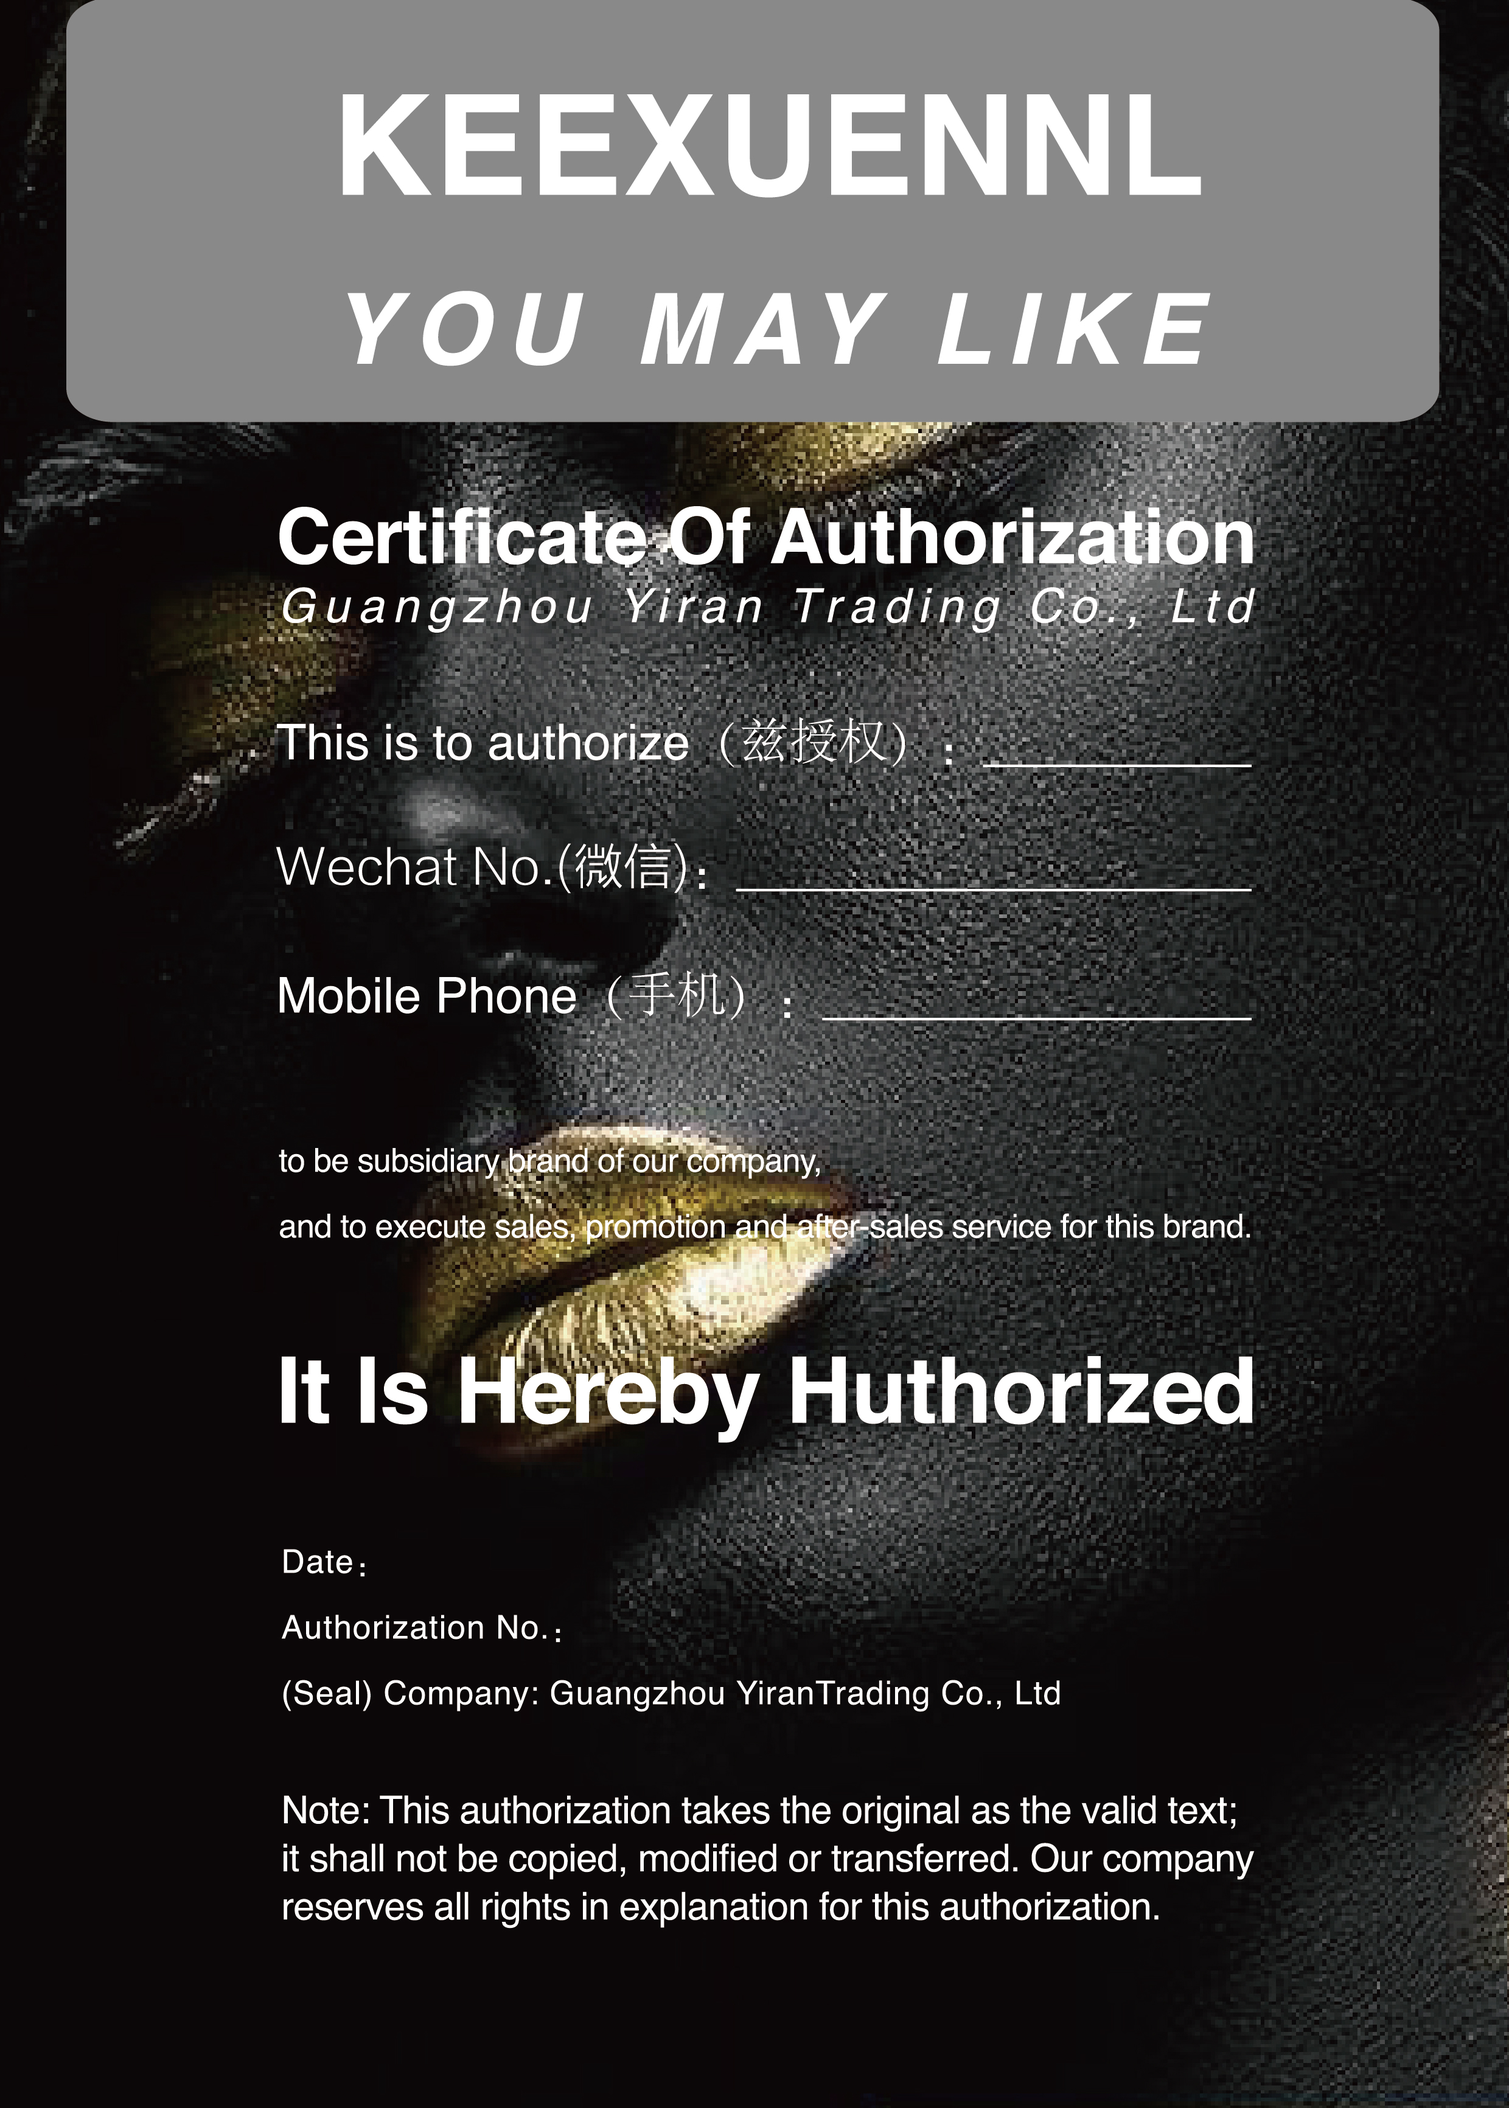
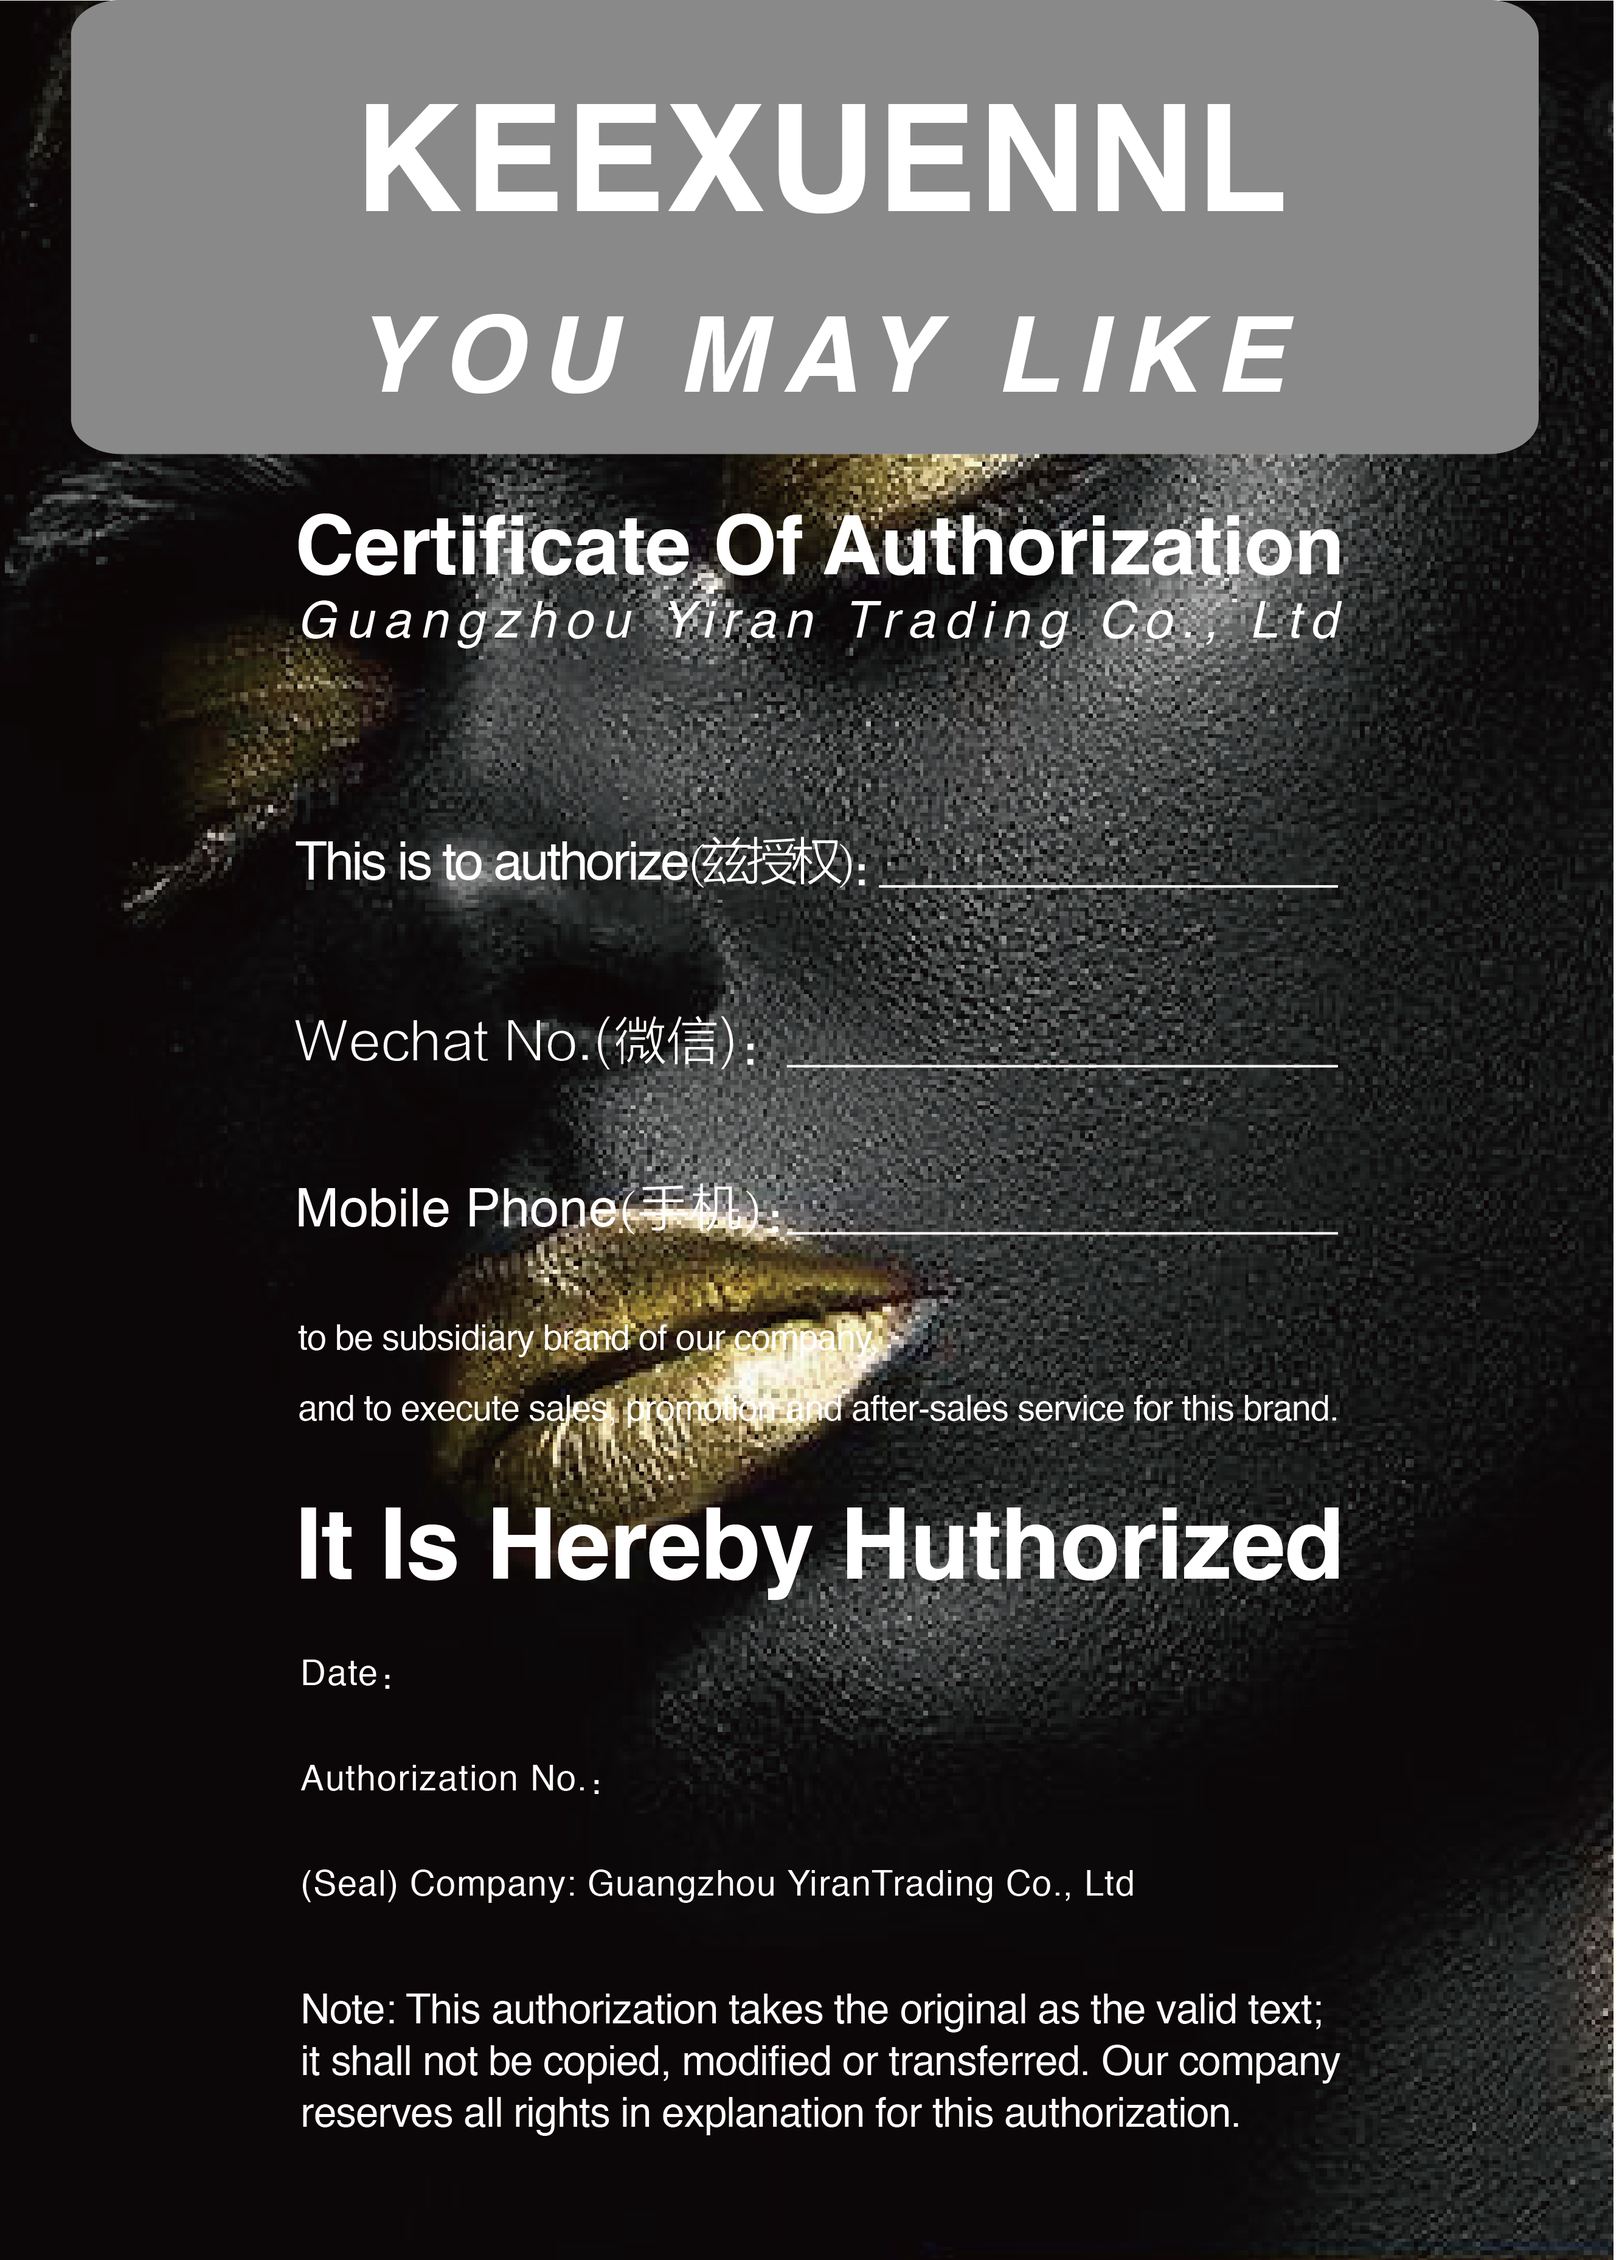
fix
fix

diff --git a/collectstatic/authorization.css b/collectstatic/authorization.css
@@ -15,24 +15,22 @@ body {
       color: #fff;
       height: 3%;
       right: 17%;
+      border: none;
       text-align: center; }
     .content div.absolute p#authorize {
-      width: 18%;
-      top: 34.1%;
+      width: 28.6%;
+      top: 36.8%;
       background-color: transparent;
-      border: none;
       outline: none; }
     .content div.absolute p#Wechat {
-      top: 40%;
-      width: 34%;
+      top: 44.8%;
+      width: 34.5%;
       background-color: transparent;
-      border: none;
       outline: none; }
     .content div.absolute p#mobile {
-      top: 46%;
-      width: 28.3%;
+      top: 52.5%;
+      width: 34.3%;
       background-color: transparent;
-      border: none;
       outline: none; }
   .content p {
     position: absolute;
@@ -40,9 +38,25 @@ body {
     font-size: 14px; }
   .content p.line1 {
     left: 26%;
-    bottom: 23.7%; }
+    bottom: 23.8%; }
   .content p.line2 {
     left: 39%;
-    bottom: 20.5%; }
+    bottom: 19%; }
+
+@media screen and (max-width: 572px) {
+  p#authorize {
+    top: 36% !important; }
+
+  p#Wechat {
+    top: 43.8% !important; }
+
+  p#mobile {
+    top: 51.5% !important; }
+
+  p.line1 {
+    bottom: 22.5% !important; }
+
+  p.line2 {
+    bottom: 18% !important; } }
 
 /*# sourceMappingURL=authorization.css.map */

diff --git a/static/authorization.css b/static/authorization.css
@@ -15,24 +15,22 @@ body {
       color: #fff;
       height: 3%;
       right: 17%;
+      border: none;
       text-align: center; }
     .content div.absolute p#authorize {
-      width: 18%;
-      top: 34.1%;
+      width: 28.6%;
+      top: 36.8%;
       background-color: transparent;
-      border: none;
       outline: none; }
     .content div.absolute p#Wechat {
-      top: 40%;
-      width: 34%;
+      top: 44.8%;
+      width: 34.5%;
       background-color: transparent;
-      border: none;
       outline: none; }
     .content div.absolute p#mobile {
-      top: 46%;
-      width: 28.3%;
+      top: 52.5%;
+      width: 34.3%;
       background-color: transparent;
-      border: none;
       outline: none; }
   .content p {
     position: absolute;
@@ -40,9 +38,25 @@ body {
     font-size: 14px; }
   .content p.line1 {
     left: 26%;
-    bottom: 23.7%; }
+    bottom: 23.8%; }
   .content p.line2 {
     left: 39%;
-    bottom: 20.5%; }
+    bottom: 19%; }
+
+@media screen and (max-width: 572px) {
+  p#authorize {
+    top: 36% !important; }
+
+  p#Wechat {
+    top: 43.8% !important; }
+
+  p#mobile {
+    top: 51.5% !important; }
+
+  p.line1 {
+    bottom: 22.5% !important; }
+
+  p.line2 {
+    bottom: 18% !important; } }
 
 /*# sourceMappingURL=authorization.css.map */

diff --git a/collectstatic/authorization.scss b/collectstatic/authorization.scss
@@ -15,27 +15,25 @@ body{
       color: #fff;
       height: 3%;
       right:17%;
+      border: none;
       text-align: center;
     }
     p#authorize{
-      width: 18%;
-      top:34.1%;
+      width: 28.6%;
+      top:36.8%;
       background-color: transparent;
-      border: none;
       outline: none;
     }
     p#Wechat{
-      top: 40%;
-      width: 34%;
+      top: 44.8%;
+      width: 34.5%;
       background-color: transparent;
-      border: none;
       outline: none;
     }
     p#mobile{
-      top:46%;
-      width:28.3%;
+      top:52.5%;
+      width:34.3%;
       background-color: transparent;
-      border: none;
       outline: none;
     }
 
@@ -47,10 +45,28 @@ body{
   }
   p.line1{
     left: 26%;
-    bottom: 23.7%;
+    bottom: 23.8%;
   }
   p.line2{
     left: 39%;
-    bottom: 20.5%;
+    bottom: 19%;
   }
+}
+@media screen and (max-width: 572px){
+  p#authorize{
+    top:36%!important;
+  }
+  p#Wechat{
+    top: 43.8%!important;
+  }
+  p#mobile{
+    top: 51.5%!important;
+  }
+  p.line1{
+    bottom: 22.5%!important;
+  }
+  p.line2{
+    bottom: 18%!important;
+  }
+
 }

diff --git a/static/authorization.scss b/static/authorization.scss
@@ -15,27 +15,25 @@ body{
       color: #fff;
       height: 3%;
       right:17%;
+      border: none;
       text-align: center;
     }
     p#authorize{
-      width: 18%;
-      top:34.1%;
+      width: 28.6%;
+      top:36.8%;
       background-color: transparent;
-      border: none;
       outline: none;
     }
     p#Wechat{
-      top: 40%;
-      width: 34%;
+      top: 44.8%;
+      width: 34.5%;
       background-color: transparent;
-      border: none;
       outline: none;
     }
     p#mobile{
-      top:46%;
-      width:28.3%;
+      top:52.5%;
+      width:34.3%;
       background-color: transparent;
-      border: none;
       outline: none;
     }
 
@@ -47,10 +45,28 @@ body{
   }
   p.line1{
     left: 26%;
-    bottom: 23.7%;
+    bottom: 23.8%;
   }
   p.line2{
     left: 39%;
-    bottom: 20.5%;
+    bottom: 19%;
   }
+}
+@media screen and (max-width: 572px){
+  p#authorize{
+    top:36%!important;
+  }
+  p#Wechat{
+    top: 43.8%!important;
+  }
+  p#mobile{
+    top: 51.5%!important;
+  }
+  p.line1{
+    bottom: 22.5%!important;
+  }
+  p.line2{
+    bottom: 18%!important;
+  }
+
 }
